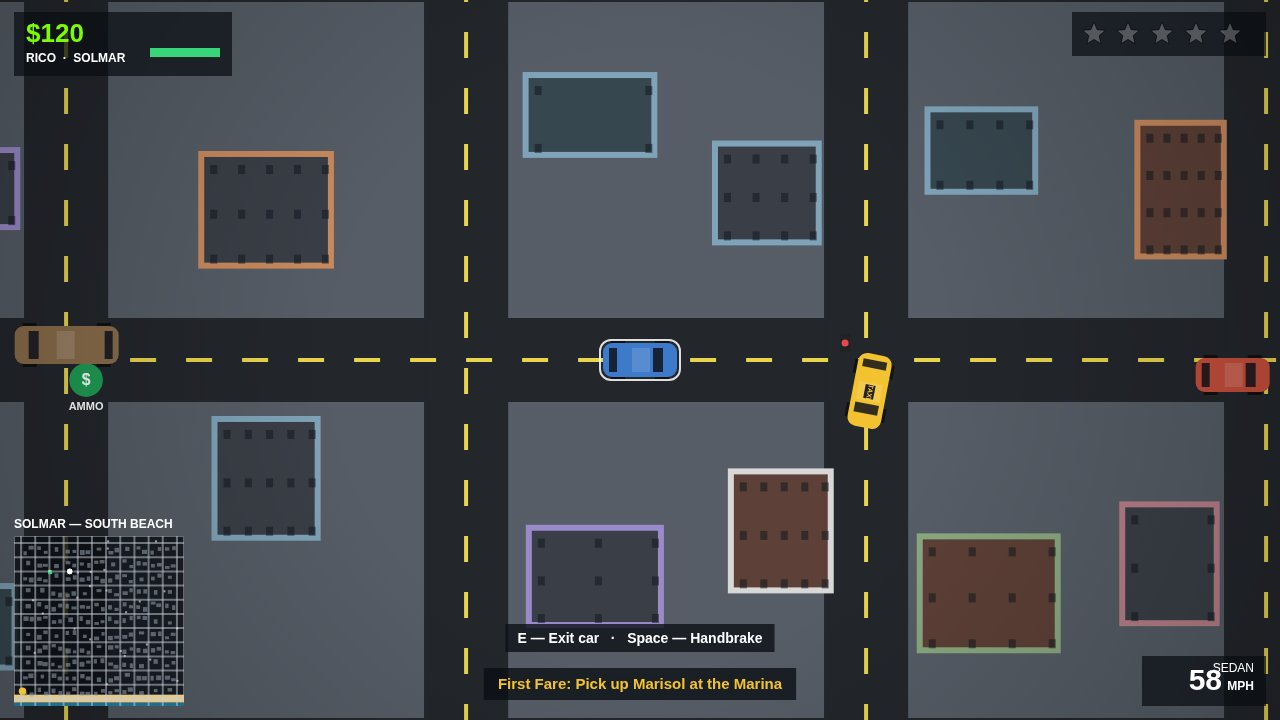
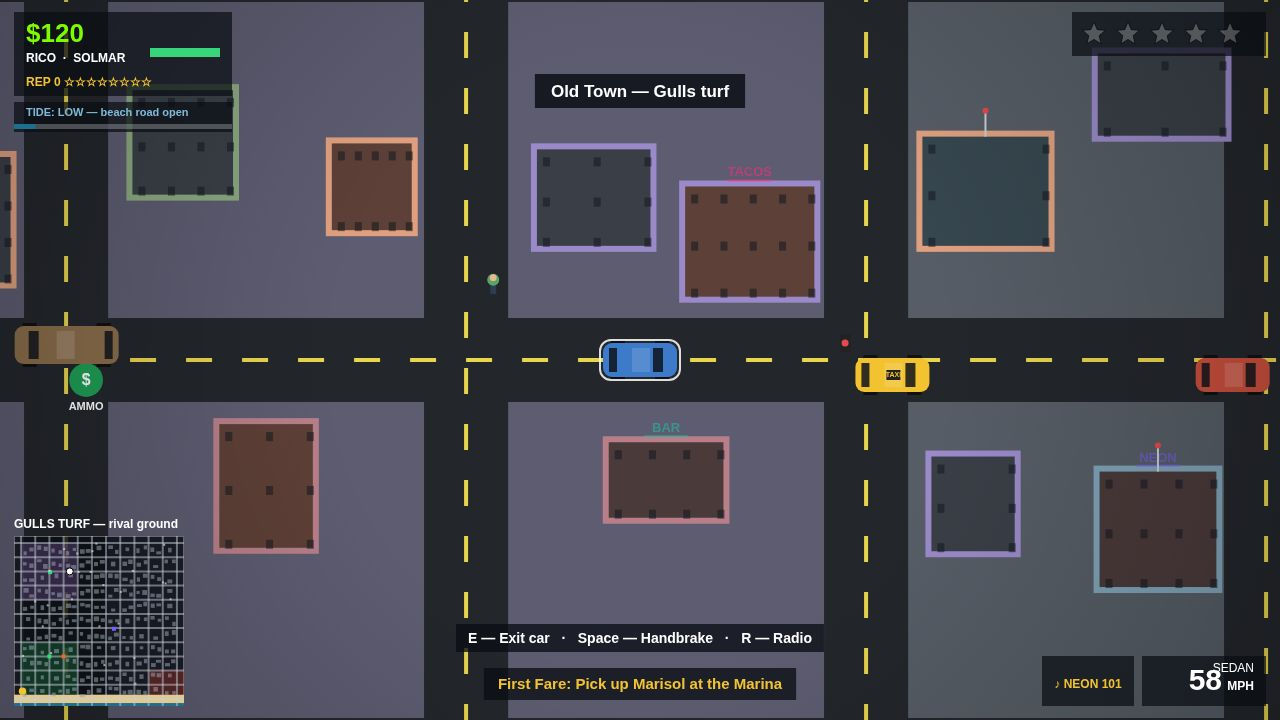
v2 screenshots: heli chase cover, radio cruise, Tide Runner, Deco Dash
Cover shows the police heli + spotlight over the beachfront road with
3 stars, minimap and The Gull Run objective. Drive is a daytime cruise
with NEON 101 on. Mission is Tide Runner at low tide (wide sand).
Chase is Deco Dash at dusk, 4 stars, three cruisers in the old town.
All 1280x720 JPEG, seed 1, deterministic.

diff --git a/game/src/shots.js b/game/src/shots.js
@@ -8,6 +8,9 @@ import { CAR_TYPES } from './config.js';
 import { makeCar, spawnTraffic, spawnParked } from './traffic.js';
 import { spawnPeds } from './pedestrians.js';
 import { jumpToStage } from './missions.js';
+import { makeHeli, spawnParkedHeli } from './helicopter.js';
+import { radioOn } from './radio.js';
+import { waterLineY } from './world.js';
 
 export const SHOT_NAMES = ['cover', 'drive', 'mission', 'chase'];
 
@@ -15,12 +18,14 @@ function freshStreets(game) {
   game.cars = [];
   game.cops = [];
   game.peds = [];
+  game.helis = [];
   game.particles = [];
   game.skids = [];
   game.tracers = [];
   game.cars.push(...spawnTraffic(game, 12));
   game.cars.push(...spawnParked(game, 10));
   game.peds = spawnPeds(game, 22);
+  spawnParkedHeli(game);
 }
 
 function placePlayerCar(game, type, x, y, angle, color, speed) {
@@ -66,24 +71,30 @@ export function setupShot(game, name) {
   freshStreets(game);
 
   if (name === 'cover') {
-    // Dusk police chase on the beachfront road: the money shot.
+    // Dusk police chase on the beachfront road — with the PD heli overhead:
+    // the money shot. 3 stars, minimap, mission objective, spotlight.
     game.timeOfDay = 0.52;
-    jumpToStage(game, 0, 1); // "Pick up Marisol at the Marina"
-    game.missions.done = [false, false, false, false];
+    jumpToStage(game, 4, 1); // "The Gull Run": board the helicopter
+    game.missions.done = [true, true, true, true, false, false, false, false];
     placePlayerCar(game, 'sports', 2350, 4600, 0, '#e83e8c', 300);
     placeCop(game, 2130, 4592, 0, 315);
     placeCop(game, 2040, 4628, 0.12, 305);
+    const heli = makeHeli('police', 2700, 4550, 0);
+    heli.alt = 170;
+    game.helis.push(heli);
     skidTrail(game, 2200, 4600, 0, 8);
     game.addParticle(2140, 4592, '#ffb347', 10);
     runSteps(game, 40, true);
     game.wanted = 3;
     game.cops = game.cops.slice(0, 2);
   } else if (name === 'drive') {
-    // Daytime cruise through the city grid, traffic all around.
+    // Daytime cruise through the city grid, traffic all around, radio on.
     game.timeOfDay = 0.15;
     jumpToStage(game, 0, 0);
-    game.missions.done = [false, false, false, false];
+    game.missions.done = [false, false, false, false, false, false, false, false];
     placePlayerCar(game, 'sedan', 1400, 1000, 0, '#3d7ac9', 235);
+    game.radio.station = 1; // NEON 101
+    radioOn(game);
     // A few neighbours on the same road so the cruise reads as traffic.
     const t1 = makeCar('traffic', 'taxi', 1720, 1015, 0, '#f2c230');
     t1.axis = 'h'; t1.dir = 1; t1.road = 2; t1.speed = 150; t1.cruise = 160;
@@ -97,34 +108,30 @@ export function setupShot(game, name) {
     game.cops = [];
     game.cars = game.cars.filter((c) => c.kind !== 'police');
   } else if (name === 'mission') {
-    // On foot at the Marina, pickup marker overhead, taxi waiting.
-    game.timeOfDay = 0.2;
-    jumpToStage(game, 0, 1);
-    game.missions.done = [false, false, false, false];
-    game.player.inCar = null;
-    game.player.x = 330;
-    game.player.y = 4310;
-    game.player.angle = Math.atan2(4380 - 4310, 240 - 330);
-    game.player.ammo = 12;
-    game.camera.x = 330;
-    game.camera.y = 4310;
-    const taxi = makeCar('parked', 'taxi', 430, 4380, Math.PI / 2, '#f2c230');
-    game.cars.push(taxi);
-    runSteps(game, 40, false);
+    // Tide Runner: low tide, the beach is a wide open highway of sand.
+    game.timeOfDay = 0.15;
+    game.tide = 0.05;
+    game.tidePhase = Math.acos(1 - 2 * 0.05) / (2 * Math.PI);
+    game.waterLineY = waterLineY(game.tide);
+    jumpToStage(game, 6, 0); // "Tide Runner": Flag 1, West Beach
+    game.missions.done = [true, true, true, true, true, true, false, false];
+    placePlayerCar(game, 'sports', 800, 4580, 0, '#22c1a3', 260);
+    skidTrail(game, 700, 4580, 0, 6);
+    runSteps(game, 40, true);
     game.wanted = 0;
     game.cops = [];
     game.cars = game.cars.filter((c) => c.kind !== 'police');
   } else if (name === 'chase') {
-    // Second action shot: taxi boxed in by three cruisers at dusk.
+    // Deco Dash: neon dusk in the old town, taxi boxed in by three cruisers.
     game.timeOfDay = 0.55;
-    game.missions.done = [true, false, false, false];
-    jumpToStage(game, 1, 0); // "Pick up the package at the Docks"
-    placePlayerCar(game, 'taxi', 3000, 2200, -Math.PI / 2, '#f2c230', 315);
-    placeCop(game, 2950, 2470, -Math.PI / 2, 320);
-    placeCop(game, 3075, 2420, -Math.PI / 2 + 0.2, 318);
-    placeCop(game, 2915, 2300, -Math.PI / 2 - 0.15, 310);
-    skidTrail(game, 3000, 2320, -Math.PI / 2, 7);
-    game.addParticle(2970, 2400, '#ffb347', 12);
+    game.missions.done = [true, true, true, true, true, true, true, false];
+    jumpToStage(game, 7, 0); // "Deco Dash": Checkpoint 1, Palm Court
+    placePlayerCar(game, 'taxi', 1000, 1000, -Math.PI / 2, '#f2c230', 315);
+    placeCop(game, 950, 1270, -Math.PI / 2, 320);
+    placeCop(game, 1075, 1220, -Math.PI / 2 + 0.2, 318);
+    placeCop(game, 915, 1100, -Math.PI / 2 - 0.15, 310);
+    skidTrail(game, 1000, 1120, -Math.PI / 2, 7);
+    game.addParticle(970, 1200, '#ffb347', 12);
     runSteps(game, 40, true);
     game.wanted = 4;
     game.cops = game.cops.slice(0, 3);
